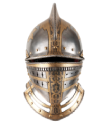
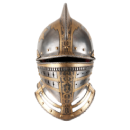
Cambios de posición de las imágenes.

Changed region(s): [[0.1944, 0.0308, 0.8056, 0.9231], [0.5278, 0.9231, 0.5556, 0.9538]]

diff --git a/src/main/java/Vista/VistaCreacionPersonaje.java b/src/main/java/Vista/VistaCreacionPersonaje.java
@@ -47,7 +47,7 @@ public class VistaCreacionPersonaje extends JPanel {
         añadirImagen(imagenesPiernas[contadorPiernas].getPath(), imagenPiernas);
 
         //Coloco los JLabel
-        imagenCasco.setBounds(170, 0, 250, 250);
+        imagenCasco.setBounds(160, 0, 250, 250);
         imagenPecho.setBounds(100, 110, 250, 250);
         imagenPiernas.setBounds(141, 240, 250, 350);
 
